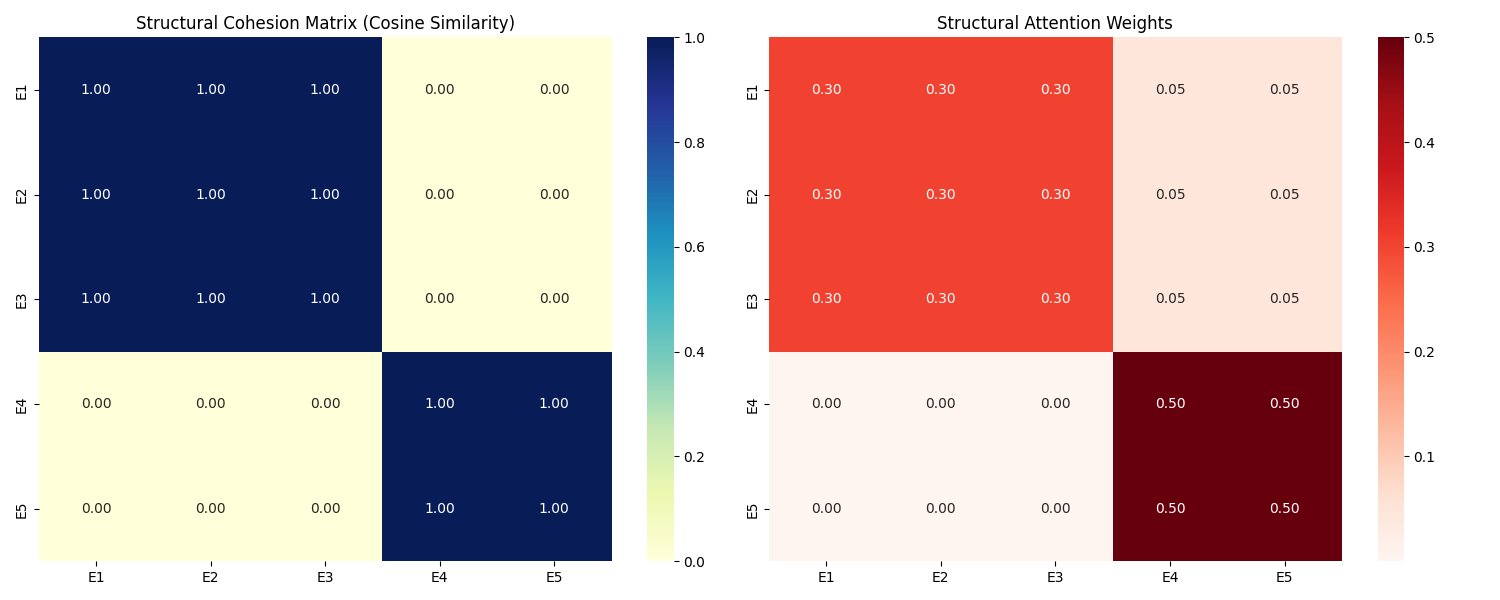
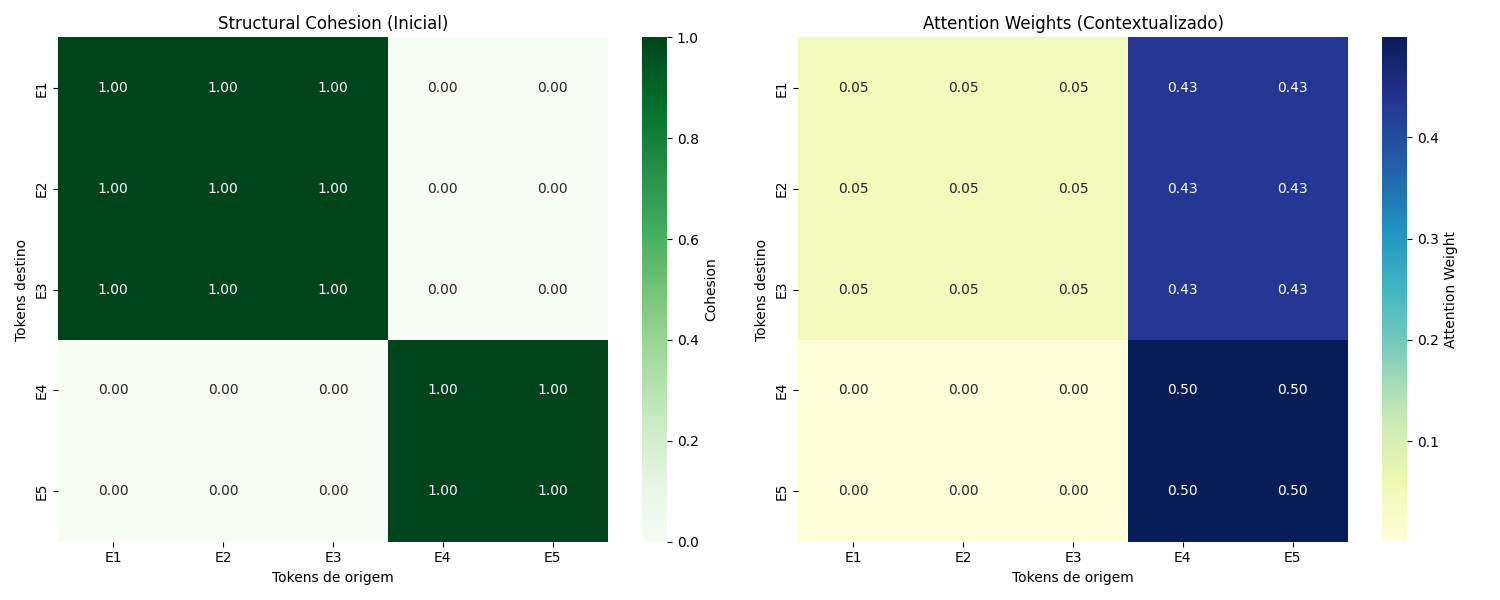
Refine token context analysis with statistics and side-by-side visualization.
- Update `polynomial_attention.py` with token list statistics (count, lengths, avg length).
- Update `polynomial_analysis.py` with side-by-side heatmap visualization (Structural Cohesion vs. Attention Weights).
- Ensure consistent 4-space indentation across Python modules.
- Update `.gitignore` for analysis artifacts.

diff --git a/polynomial_analysis.py b/polynomial_analysis.py
@@ -8,32 +8,38 @@ def run_analysis():
 
     token_list, cohesion, weights = run_simulation()
 
-    # Create visualization
-    fig, (ax1, ax2) = plt.subplots(1, 2, figsize=(15, 6))
+    # Create visualization side-by-side
+    fig, axes = plt.subplots(1, 2, figsize=(15, 6))
 
-    # 1. Structural Cohesion Matrix
+    # 1. Structural Cohesion Matrix (Inicial)
     sns.heatmap(
         cohesion.detach().numpy(),
         annot=True,
         fmt=".2f",
+        cmap="Greens",
         xticklabels=token_list,
         yticklabels=token_list,
-        cmap="YlGnBu",
-        ax=ax1
+        cbar_kws={'label': 'Cohesion'},
+        ax=axes[0]
     )
-    ax1.set_title("Structural Cohesion Matrix (Cosine Similarity)")
+    axes[0].set_title("Structural Cohesion (Inicial)")
+    axes[0].set_xlabel("Tokens de origem")
+    axes[0].set_ylabel("Tokens destino")
 
-    # 2. Structural Attention Weights
+    # 2. Attention Weights (Contextualizado)
     sns.heatmap(
         weights.detach().numpy(),
         annot=True,
         fmt=".2f",
+        cmap="YlGnBu",
         xticklabels=token_list,
         yticklabels=token_list,
-        cmap="Reds",
-        ax=ax2
+        cbar_kws={'label': 'Attention Weight'},
+        ax=axes[1]
     )
-    ax2.set_title("Structural Attention Weights")
+    axes[1].set_title("Attention Weights (Contextualizado)")
+    axes[1].set_xlabel("Tokens de origem")
+    axes[1].set_ylabel("Tokens destino")
 
     plt.tight_layout()
     plt.savefig("polynomial_analysis.png")

diff --git a/polynomial_attention.py b/polynomial_attention.py
@@ -226,6 +226,16 @@ def run_simulation():
     print("\n=== Contextualized Representations ===")
     print(contextualized)
 
+    # Estatísticas da token_list
+    num_tokens = len(token_list)
+    token_lengths = [len(t) for t in token_list]
+    avg_token_length = sum(token_lengths) / num_tokens
+
+    print("\n=== Estatísticas da token_list ===")
+    print("Número de tokens:", num_tokens)
+    print("Comprimento de cada token:", token_lengths)
+    print("Comprimento médio dos tokens:", avg_token_length)
+
     print("\n=== Raiz Quadrada Aproximada do Embedding ===")
     print(sqrt_vectors)
 
